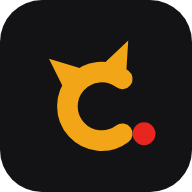
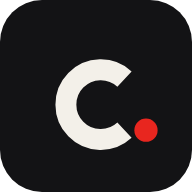
editor-creat: modos de edição no pedido (criativo, ultra, cinema, IA, clean, sério, fala) e marca sóbria (c. sem orelhas, 'Do bruto ao filme.', 'Pula o óbvio.' como assinatura); aceite D 18/18
Claude-Session: https://claude.ai/code/session_01LA2wrNjEtSXgcrvSrShhDV

Changed region(s): [[0.25, 0.2188, 0.8438, 0.8125]]

diff --git a/projetos/editor-creat/apps/web/componentes/Projeto.tsx b/projetos/editor-creat/apps/web/componentes/Projeto.tsx
@@ -4,8 +4,7 @@ import { useCallback, useEffect, useMemo, useRef, useState } from 'react';
 import Envio from './Envio';
 import {
   bytesLegiveis, classeEstado, ESTADOS, ETAPA_DO_ESTADO, EXPLICA_ESTADO, ROTULO_ESTADO, rotuloTipo,
-  type Evento, type Projeto as TProjeto, type Versao,
-} from '@/lib/estados';
+  type Evento, type Projeto as TProjeto, type Versao, MODOS } from '@/lib/estados';
 
 const TETO_MS = 30 * 60 * 1000;
 const ESTADOS_ABERTOS = ['recebendo', 'lendo'];
@@ -306,7 +305,8 @@ function Pedido({ atual, aberto, aoMandar }: { atual: string | null; aberto: boo
       if (!texto) return;
       const duracao = Number(f.get('duracao') ?? 0);
       setIndo(true);
-      await aoMandar({ texto, ...(duracao ? { duracao_alvo: duracao } : {}) });
+      const modo = String(f.get('modo') ?? 'auto');
+      await aoMandar({ texto, modo, ...(duracao ? { duracao_alvo: duracao } : {}) });
       setIndo(false);
     }}>
       {atual && <p className="aviso" data-teste="pedido-atual">Pedido atual: “{atual}”. Mande de novo para trocar.</p>}
@@ -315,6 +315,17 @@ function Pedido({ atual, aberto, aoMandar }: { atual: string | null; aberto: boo
         <textarea className="entrada" name="texto" maxLength={4000} required
           placeholder="Ex.: Reels de 45 s do bastidor, abre com a minha fala mais forte, fecha chamando para o @creat.mtt." />
       </label>
+      <fieldset className="campo" style={{ border: 0, margin: 0, padding: 0 }}>
+        <legend className="campo__rotulo" style={{ marginBottom: 8 }}>Modo de edição</legend>
+        <div className="opcoes" data-teste="modos">
+          {MODOS.map((m, i) => (
+            <label className="opcao" key={m.valor} title={m.dica}>
+              <input type="radio" name="modo" value={m.valor} defaultChecked={i === 0} />
+              <span>{m.rotulo}</span>
+            </label>
+          ))}
+        </div>
+      </fieldset>
       <label className="campo">
         <span className="campo__rotulo">Duração</span>
         <select className="entrada" name="duracao" defaultValue="0">

diff --git a/projetos/editor-creat/apps/web/app/globals.css b/projetos/editor-creat/apps/web/app/globals.css
@@ -97,16 +97,10 @@ button, input, select, textarea { font: inherit; color: inherit; }
   background: var(--cor-aba); color: #fff; padding: 5px 7px 4px; border-radius: 3px;
   transform: rotate(-3deg);
 }
-.iso { color: var(--cor-ambar); flex: 0 0 auto; display: block; }
+.iso { flex: 0 0 auto; display: block; }
 .iso__ponto { fill: var(--cor-aba); }
-.topo__pulo { display: inline-flex; align-items: center; gap: 6px; font: 900 17px/1 var(--fonte-marca); letter-spacing: -0.03em; color: var(--cor-aba); text-transform: lowercase; }
-.entrar__iso { margin-bottom: var(--r3); }
-@media (prefers-reduced-motion: no-preference) {
-  .entrar__iso .iso { animation: pulo 2.6s var(--curva-entrada) infinite; transform-origin: 50% 100%; }
-  .entrar__iso .iso__ponto { animation: ponto 2.6s linear infinite; }
-}
-@keyframes pulo { 0%, 58%, 100% { transform: translateY(0) rotate(0); } 12% { transform: translateY(2px) scaleY(0.94); } 30% { transform: translateY(-16px) rotate(-7deg); } 46% { transform: translateY(0) scaleY(0.97); } }
-@keyframes ponto { 0%, 40%, 100% { opacity: 1; } 46%, 52% { opacity: 0.35; } }
+.topo__editor { font: 700 11px/1 var(--fonte-dado); letter-spacing: 0.22em; text-transform: uppercase; color: var(--cor-tinta-2); padding-left: 10px; border-left: 1px solid var(--cor-linha); }
+.entrar__assina { display: flex; align-items: center; gap: 8px; font: 700 12px/1 var(--fonte-dado); letter-spacing: 0.14em; text-transform: uppercase; color: var(--cor-tinta-2); }
 .topo__nav { margin-left: auto; display: flex; align-items: center; gap: var(--r1); }
 
 /* ---------- botões e campos ---------- */

diff --git a/projetos/editor-creat/apps/web/app/entrar/page.tsx b/projetos/editor-creat/apps/web/app/entrar/page.tsx
@@ -15,19 +15,19 @@ export default async function Entrar() {
         <div style={{ display: 'flex', alignItems: 'center', gap: 10 }}>
           <img className="topo__logo logo-claro" src="/marca/logo_creatMTT_claro.png" alt="creat.MTT" width={128} height={22} />
           <img className="topo__logo logo-escuro" src="/marca/logo_creatMTT_escuro.png" alt="creat.MTT" width={128} height={22} />
-          <span className="topo__pulo" aria-hidden="true">pulo</span>
+          <span className="topo__editor" aria-hidden="true">Editor</span>
         </div>
         <div>
           <p className="entrar__tc" aria-hidden="true">00:00:00:00 / 30:00</p>
-          <div className="entrar__iso"><Iso tamanho={92} titulo="creat.PULO" /></div>
-          <h1 className="entrar__titulo">Pula o <em>óbvio.</em></h1>
-          <p className="aviso" style={{ marginTop: 12 }}>O editor da creat.MTT. Você sobe o material e fala o pedido. Ele devolve o filme com pulo do gato em até 30 minutos.</p>
+          <h1 className="entrar__titulo">Do bruto <em>ao filme.</em></h1>
+          <p className="aviso" style={{ marginTop: 12 }}>Você sobe o material, escolhe o modo de edição e faz o pedido. O filme volta pronto e conferido em até 30 minutos.</p>
         </div>
         {conf.ok ? (
           <FormEntrar />
         ) : (
           <p className="erro" role="alert">O site ainda não foi configurado: falta {conf.falta.join(' e ')}. Veja apps/web/README.md.</p>
         )}
+        <p className="entrar__assina"><Iso tamanho={22} gato />Pula o óbvio.</p>
       </div>
     </main>
   );

diff --git a/projetos/editor-creat/apps/web/componentes/Iso.tsx b/projetos/editor-creat/apps/web/componentes/Iso.tsx
@@ -1,10 +1,11 @@
-// Isotipo do creat.PULO: o "c." da creat com orelhas. O c é o gato, o ponto vermelho é o ponto da marca (e o que ele pula).
-export default function Iso({ tamanho = 28, titulo }: { tamanho?: number; titulo?: string }) {
+// Isotipo do Editor creat.MTT: o "c." da creat. O c é um anel com corte reto (o corte da edição) e o ponto vermelho é o ponto da marca.
+// `gato` liga as orelhas: só na camada secundária de comunicação (espera, avisos, "Pula o óbvio."), nunca na marca principal.
+export default function Iso({ tamanho = 28, titulo, gato = false }: { tamanho?: number; titulo?: string; gato?: boolean }) {
   return (
     <svg className="iso" width={tamanho} height={tamanho} viewBox="-6 -4 132 128" role={titulo ? 'img' : undefined} aria-label={titulo} aria-hidden={titulo ? undefined : true}>
-      <path d="M82 46 A30 30 0 1 0 82 94" fill="none" stroke="currentColor" strokeWidth="18" strokeLinecap="round" />
-      <path fill="currentColor" d="M52.7 39 L33 58.7 L17.9 28.5Z M85.2 44.7 L61.1 37.1 L87.2 12.5Z" />
-      <circle className="iso__ponto" cx="101" cy="94" r="10" />
+      <path d="M84.5 48 A30 30 0 1 0 84.5 92" fill="none" stroke="currentColor" strokeWidth="18" strokeLinecap="butt" />
+      {gato && <path fill="currentColor" d="M52.7 39 L33 58.7 L17.9 28.5Z M85.2 44.7 L61.1 37.1 L87.2 12.5Z" />}
+      <circle className="iso__ponto" cx="103" cy="92" r="10" />
     </svg>
   );
 }

diff --git a/projetos/editor-creat/apps/web/lib/estados.ts b/projetos/editor-creat/apps/web/lib/estados.ts
@@ -31,6 +31,16 @@ export const TIPOS_VIDEO: { valor: string; rotulo: string }[] = [
   { valor: 'anuncio', rotulo: 'Anúncio' },
   { valor: 'depoimento', rotulo: 'Depoimento' },
 ];
+export const MODOS: { valor: string; rotulo: string; dica: string }[] = [
+  { valor: 'auto', rotulo: 'O editor decide', dica: 'Ele lê o material e escolhe.' },
+  { valor: 'criativo', rotulo: 'Criativo', dica: 'Ritmo vivo e tipografia em movimento.' },
+  { valor: 'ultra', rotulo: 'Ultra criação', dica: 'O máximo de invenção, com mascotes e efeitos.' },
+  { valor: 'cinema', rotulo: 'Cinema', dica: 'Transições de cinema, cor e trilha com emoção.' },
+  { valor: 'ia', rotulo: 'Com IA', dica: 'Cenas geradas junto do material real, sempre rotuladas.' },
+  { valor: 'clean', rotulo: 'Clean', dica: 'Limpo e neutro, cortes precisos.' },
+  { valor: 'serio', rotulo: 'Sério', dica: 'Institucional e sóbrio.' },
+  { valor: 'fala', rotulo: 'Fala', dica: 'A fala é o filme. Legenda fiel.' },
+];
 export const rotuloTipo = (v: string | null | undefined) => TIPOS_VIDEO.find((t) => t.valor === v)?.rotulo ?? 'O editor decide';
 
 export function classeEstado(estado: string): string {

diff --git a/projetos/editor-creat/apps/web/componentes/Topo.tsx b/projetos/editor-creat/apps/web/componentes/Topo.tsx
@@ -1,13 +1,12 @@
 import Link from 'next/link';
-import Iso from './Iso';
 
 export default function Topo() {
   return (
     <header className="topo">
-      <Link className="topo__marca" href="/projetos" aria-label="creat.PULO, ir para projetos">
+      <Link className="topo__marca" href="/projetos" aria-label="Editor creat.MTT, ir para projetos">
         <img className="topo__logo logo-claro" src="/marca/logo_creatMTT_claro.png" alt="" width={128} height={22} />
         <img className="topo__logo logo-escuro" src="/marca/logo_creatMTT_escuro.png" alt="" width={128} height={22} />
-        <span className="topo__pulo" aria-hidden="true"><Iso tamanho={26} />pulo</span>
+        <span className="topo__editor" aria-hidden="true">Editor</span>
       </Link>
       <nav className="topo__nav" aria-label="Principal">
         <Link className="botao botao--fantasma botao--pequeno" href="/projetos">Projetos</Link>

diff --git a/projetos/editor-creat/apps/web/app/layout.tsx b/projetos/editor-creat/apps/web/app/layout.tsx
@@ -2,11 +2,11 @@ import type { Metadata, Viewport } from 'next';
 import './globals.css';
 
 export const metadata: Metadata = {
-  title: { default: 'creat.PULO', template: '%s · creat.PULO' },
-  description: 'O editor da creat.MTT. Sobe o material, fala o pedido, recebe o filme com pulo do gato em até 30 minutos.',
+  title: { default: 'Editor creat.MTT', template: '%s · Editor creat.MTT' },
+  description: 'Sobe o material, escolhe o modo de edição, faz o pedido e recebe o filme pronto em até 30 minutos.',
   manifest: '/manifest.webmanifest',
   icons: { icon: '/icone.svg', apple: '/icone-192.png' },
-  appleWebApp: { capable: true, title: 'PULO', statusBarStyle: 'black-translucent' },
+  appleWebApp: { capable: true, title: 'Editor', statusBarStyle: 'black-translucent' },
   robots: { index: false, follow: false },
 };
 

diff --git a/projetos/editor-creat/apps/web/app/projetos/page.tsx b/projetos/editor-creat/apps/web/app/projetos/page.tsx
@@ -11,7 +11,7 @@ export default async function Projetos() {
     <main className="pagina">
       <div className="cabeca-pagina">
         <div>
-          <p className="sobretitulo">creat.PULO · ilha de edição</p>
+          <p className="sobretitulo">Ilha de edição</p>
           <h1 className="titulo">Projetos</h1>
         </div>
         <Link className="botao botao--principal" href="/projetos/novo">Novo projeto</Link>

diff --git a/projetos/editor-creat/services/motor/motor/api/direcao.py b/projetos/editor-creat/services/motor/motor/api/direcao.py
@@ -18,6 +18,7 @@ from motor.memoria.loja import Loja
 
 rotas = APIRouter(tags=["direcao"])
 TipoVideo = Literal["auto", "evento", "empresa", "daily_vlog", "anuncio", "depoimento", "bastidor"]
+Modo = Literal["auto", "criativo", "ultra", "cinema", "ia", "clean", "serio", "fala"]
 Destino = Literal["reels", "stories", "tiktok", "shorts", "feed", "youtube"]
 
 
@@ -49,6 +50,7 @@ class PedidoEntrada(BaseModel):
     texto: Optional[str] = Field(None, max_length=4000)
     audio_chave: Optional[str] = Field(None, max_length=500)
     tipo_video: TipoVideo = "auto"
+    modo: Modo = "auto"
     duracao_alvo: Optional[float] = Field(None, ge=5, le=600)
     destino: list[Destino] = Field(default_factory=lambda: ["reels"], max_length=6)
     formato: Literal["9:16", "1:1", "4:5", "16:9"] = "9:16"
@@ -104,7 +106,7 @@ def gravar_pedido(pid: str, corpo: PedidoEntrada):
             texto = _transcrever_pedido(cfg, arm, corpo.audio_chave)
             if not texto:
                 raise HTTPException(422, "não deu para entender o áudio do pedido; grave de novo ou mande em texto")
-        pedido = {"versao": "1", "projeto": pid, "texto": texto, "audio": corpo.audio_chave, "tipo_video": tipo, "cliente": corpo.cliente,
+        pedido = {"versao": "1", "projeto": pid, "texto": texto, "audio": corpo.audio_chave, "tipo_video": tipo, "modo": corpo.modo, "cliente": corpo.cliente,
                   "destino": corpo.destino, "formato": corpo.formato, "duracao_alvo": corpo.duracao_alvo, "obrigatorio": corpo.obrigatorio,
                   "proibido": corpo.proibido, "referencias": [], "ajustes_de": corpo.ajustes_de, "criado_em": banco.agora_iso()}
         erros = validar.erros("pedido", pedido)
@@ -113,7 +115,7 @@ def gravar_pedido(pid: str, corpo: PedidoEntrada):
         arm.gravar_json(f"projetos/{pid}/pedido.json", pedido)
         r = con.execute("SELECT dados FROM projetos WHERE id=?", (pid,)).fetchone()
         dados = json.loads(r["dados"] or "{}")
-        dados["pedido"] = {"texto": texto[:200], "tipo_video": tipo}
+        dados["pedido"] = {"texto": texto[:200], "tipo_video": tipo, "modo": corpo.modo}
         con.execute("UPDATE projetos SET dados=?, atualizado=? WHERE id=?", (json.dumps(dados), banco.agora_iso(), pid))
         banco.emitir(con, pid, "estado", mensagem="Pedido recebido.", dados={"pedido": texto[:200]})
         dirigindo = pipeline.tentar_dirigir(con, pid)

diff --git a/projetos/editor-creat/services/motor/motor/etapas/direcao.py b/projetos/editor-creat/services/motor/motor/etapas/direcao.py
@@ -20,6 +20,18 @@ from motor.etapas.resolvedor import ErroResolucao, resolver
 from motor.memoria.loja import Loja
 
 
+# Modos de edição (estilo): o mesmo material pode virar filmes bem diferentes. O dono escolhe no pedido; "auto" deixa o diretor decidir.
+MODOS = {
+    "criativo": "criativo: ritmo vivo, tipografia cinética, transições motivadas pela fala, humor e surpresa na medida",
+    "ultra": "ultra criação: o máximo de invenção (motion pesado, personagens e mascotes da marca, efeitos de impacto, som casado); interpretar além do pedido",
+    "cinema": "cinema: transições cinematográficas, cor por LUT e por ambiente, trilha com curva emocional, poucos textos e bem compostos",
+    "ia": "com IA: cenas geradas por IA entram junto do material humano para mostrar o que a câmera não pegou; toda cena gerada é rotulada como conceito",
+    "clean": "clean: limpo e neutro, cortes secos e precisos, legenda discreta, sem efeitos chamativos, muito respiro",
+    "serio": "sério: institucional e sóbrio, sem mascote, sem gíria, sem efeito de impacto; marca e dados com clareza",
+    "fala": "fala e apresentação: a fala é o filme; cortes só para tirar pausa e erro, legenda fiel, apoio visual apenas quando esclarece",
+}
+
+
 def montar_prompt(loja: Loja, catalogo_txt: str, pedido: dict, *, correcao: dict | None = None) -> tuple[str, str, str]:
     """Devolve (sistema, catalogo_txt, pedido_txt). Sistema e catálogo são estáveis (cache); o pedido vem por último."""
     tipo = (pedido or {}).get("tipo_video") or "auto"
@@ -32,6 +44,9 @@ def montar_prompt(loja: Loja, catalogo_txt: str, pedido: dict, *, correcao: dict
         v = p.get(campo)
         if v not in (None, "", [], "auto"):
             linhas.append(f"{rotulo}: {', '.join(map(str, v)) if isinstance(v, list) else v}")
+    modo = MODOS.get(p.get("modo") or "auto")
+    if modo:
+        linhas.append(f"modo de edição: {modo}")
     if correcao:
         if correcao.get("reprovacao"):
             linhas.append(f"O DONO REPROVOU a versão {correcao.get('versao_anterior')}: «{correcao['reprovacao']}». Corrija isso na nova direção.")

diff --git a/projetos/editor-creat/services/motor/tests/test_modos.py b/projetos/editor-creat/services/motor/tests/test_modos.py
@@ -1,0 +1,32 @@
+"""Modo de edição: o pedido aceita o modo, o contrato valida e a direção recebe a instrução do estilo."""
+import validar
+from motor.etapas.direcao import MODOS, montar_prompt
+
+
+class _Loja:
+    def regras_para_prompt(self, tipo): return "- regra"
+    def modelos_para_prompt(self): return "- modelo"
+    def casos_para_prompt(self, tipo): return ""
+
+
+def _pedido(**k):
+    p = {"versao": "1", "projeto": "p_teste0001", "texto": "reel do dia", "audio": None, "tipo_video": "auto", "cliente": None, "destino": ["reels"],
+         "formato": "9:16", "duracao_alvo": None, "obrigatorio": [], "proibido": [], "referencias": [], "ajustes_de": None, "criado_em": "2026-11-19T00:00:00Z"}
+    p.update(k)
+    return p
+
+
+def test_contrato_aceita_os_modos_e_recusa_modo_inventado():
+    for m in ["auto", *MODOS]:
+        assert validar.erros("pedido", _pedido(modo=m)) == [], m
+    assert validar.erros("pedido", _pedido(modo="qualquer"))
+    assert validar.erros("pedido", _pedido()) == []      # pedido antigo, sem modo, continua valendo
+
+
+def test_direcao_recebe_o_modo_e_auto_nao_polui():
+    _, _, txt = montar_prompt(_Loja(), "CAT", _pedido(modo="serio"))
+    assert "modo de edição: sério" in txt and "sem mascote" in txt
+    _, _, txt = montar_prompt(_Loja(), "CAT", _pedido(modo="auto"))
+    assert "modo de edição" not in txt
+    _, _, txt = montar_prompt(_Loja(), "CAT", _pedido())
+    assert "modo de edição" not in txt

diff --git a/projetos/editor-creat/PROGRESSO.md b/projetos/editor-creat/PROGRESSO.md
@@ -46,3 +46,10 @@ Atualize este arquivo a cada passo concluído (a máquina reinicia sem aviso). F
 - Depois: `checar.cjs` na cena de estresse e na demo, **tudo dentro das regras**.
 - Achado aberto: `*destaque*` só vale por palavra; `*PARA NUNCA*` (duas palavras) imprime os asteriscos. Usar `*PARA* *NUNCA*` ou suportar frase no `palavras()`.
 - Lição do Reel 17/11 para o catálogo de transições: transição por luminância (`luma`) abre buracos no rosto de pessoa real (pele clara some antes da sombra). Para plano de rosto usar fusão limpa; `luma` só para cenário sem pessoa em primeiro plano.
+
+## Identidade e modos de edição — 19/11
+- Leitura do dono: o editor atende vídeos criativos, sérios, clean, ultra criação, com IA, cinema e fala. A marca principal tem que ser moderna e sóbria; o "pulo do gato" fica como camada secundária (assinatura "Pula o óbvio.", espera, avisos).
+- Marca: logo creat.MTT + "EDITOR" (mono). Isotipo = o "c." da creat (anel com corte reto + ponto vermelho), `componentes/Iso.tsx`; `gato` liga as orelhas só na camada secundária. Login: "Do bruto ao filme."
+- **Modo de edição** (novo campo `modo` do pedido, contrato `pedido.schema.json`): auto, criativo, ultra, cinema, ia, clean, serio, fala. O site manda no pedido; a direção recebe a instrução do estilo (`etapas/direcao.py: MODOS`). Testes: `tests/test_modos.py`. Aceite D 18/18; pytest 122 ok.
+- `tests/test_c_unidades.py::test_edl_legado_v1_v2_validos` falha neste ambiente porque lê `scratchpad/drako/seg/indice.json`, que não existe mais depois que a máquina reiniciou (não é regressão; o teste depende de arquivo fora do repositório e deveria pular quando falta).
+- Próximo: cada modo com seu modelo em `memoria/modelos/` (hoje só daily-vlog e anuncio-produto), a tela "Caderno da casa" (regras e treinamento visíveis ao dono) e o endereço público.
